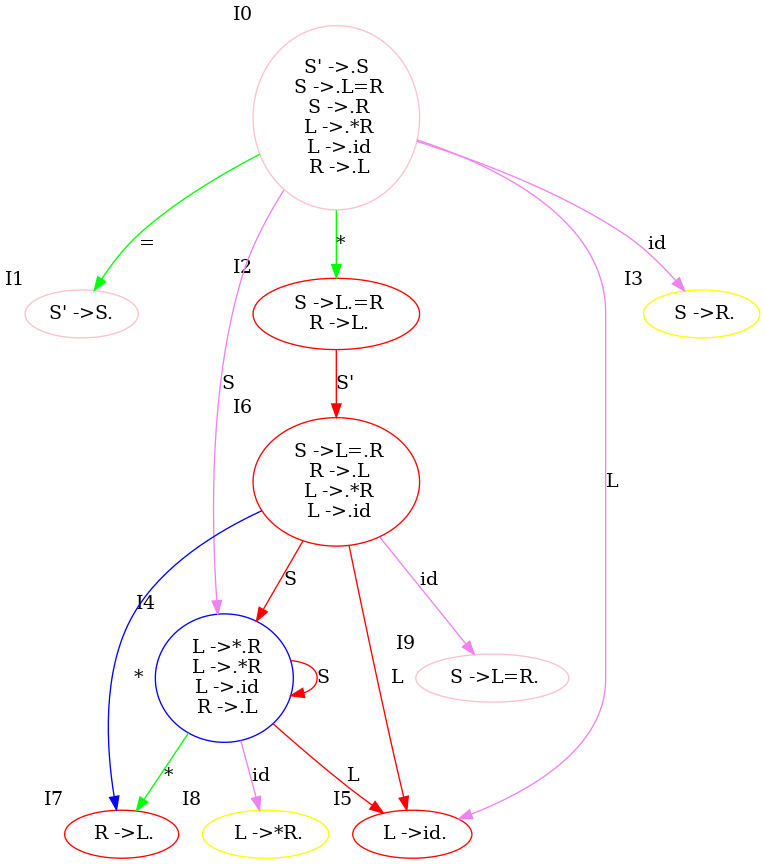
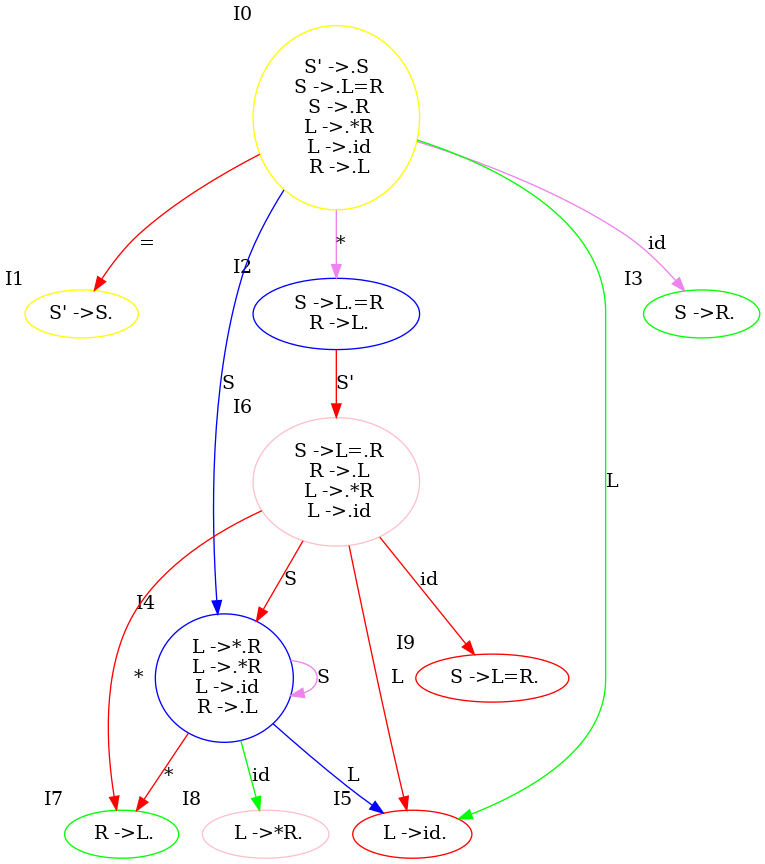
Image endpoint added

diff --git a/backend/server.py b/backend/server.py
@@ -4,8 +4,10 @@ from  typing import *
 import json
 from graphviz import Digraph
 import random
+from flask_ngrok import run_with_ngrok
 
 app = Flask(__name__)
+run_with_ngrok(app)
 
     
 Grammer = []
@@ -36,27 +38,55 @@ def driver():
     global parse_table
     parse_table = [["" for c in range(len(terminals) + len(nonterminals) + 1)] for r in range(len(C))]
     construct_dfa()
-    return jsonify({"status" : "200 OK"})
+    response = jsonify({"status" : "200 OK"})
+    response.headers.add('Access-Control-Allow-Origin', '*')
+    return response
 
 @app.route("/first")
 def get_first():
-    return jsonify(firsts)
+    response = jsonify(firsts)
+    response.headers.add('Access-Control-Allow-Origin', '*')
+    return response
 
-@app.route("/follows")
+@app.route("/follow")
 def get_follow():
-    return jsonify(follows)
+    response = jsonify(follows)
+    response.headers.add('Access-Control-Allow-Origin', '*')
+    return response
+
+@app.route("/terminals")
+def get_terminals():
+    response = jsonify(terminals)
+    response.headers.add('Access-Control-Allow-Origin', '*')
+    return response
+
+@app.route("/non-terminals")
+def get_nonterminals():
+    response = jsonify(nonterminals)
+    response.headers.add('Access-Control-Allow-Origin', '*')
+    return response
+    
 
 @app.route("/parsingtable")
 def get_parsetable():
-    return jsonify(parse_table)
+    response = jsonify(parse_table)
+    response.headers.add('Access-Control-Allow-Origin', '*')
+    return response
 
 @app.route("/add-input",methods=["POST"])
 def parse_input():  
     input = request.data.decode()
     to_parse = " ".join((input + " $").split()).split(" ")
     res = process_input(to_parse)
-    return jsonify(res)
+    response = jsonify(res)
+    response.headers.add('Access-Control-Allow-Origin', '*')
+    return response
 
+
+@app.route('/get_image')
+def get_image():
+    filename = './static/dfa.png'
+    return send_file(filename, mimetype='image/png')
 
 def parse_grammar(Grammer):
     grammars = Grammer
@@ -383,7 +413,7 @@ def construct_dfa():
                         # print rel
                         r = int(rel[1:3])
 
-                print("node %d relates to %s for %s" % (i, r, a))
+                # print("node %d relates to %s for %s" % (i, r, a))
                 relation.append(chr(i + 97) + chr(r + 97))
                 r1.append(a)
 
@@ -402,7 +432,7 @@ def construct_dfa():
         lst = ['red', 'violet', 'blue', 'green']
         random_color = random.choice(lst)
         dot.edge(relation[i][0], relation[i][1], label=r1[i], color=random_color)
-    dot.render('dfa', view=True)
+    dot.render('static/dfa', view=True)
 
 def process_input(input_to_parse):
     to_parse = input_to_parse
@@ -462,4 +492,4 @@ def process_input(input_to_parse):
     return output_dict
 
 if __name__ == "__main__":
-    app.run(debug=True)
+    app.run()
